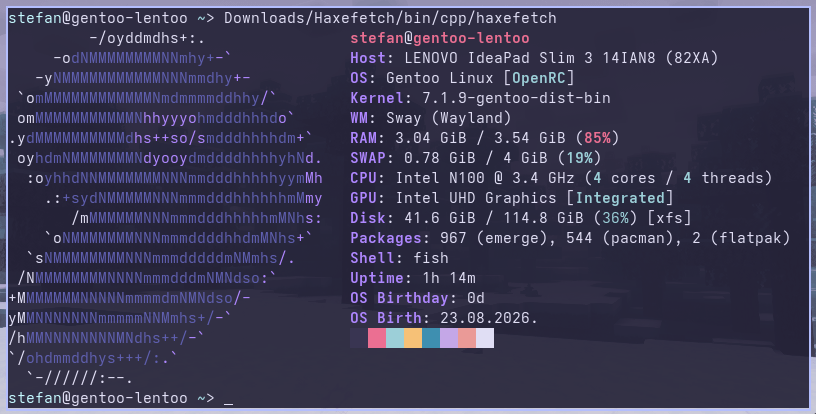
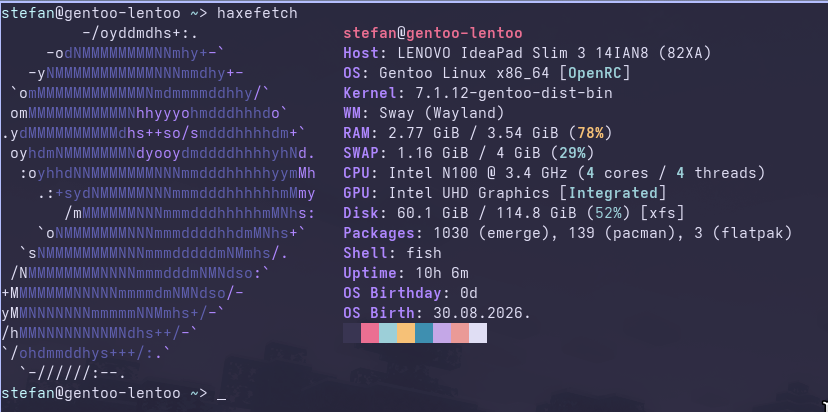
Push

Changed region(s): [[0.0, 0.0, 1.0, 1.0]]

diff --git a/.github/README.md b/.github/README.md
@@ -1,5 +1,5 @@
 <p align="center">
-  <img src="src/resources/Haxefetch.png" width="85%" alt="Haxefetch">
+  <img src="../src/resources/Haxefetch.png" width="85%" alt="Haxefetch">
 </p>
 
 <div align="center">
@@ -14,20 +14,20 @@
 Haxefetch is fetch program inspired by fastfetch, neofetch, pfetch, nerdfetch, hyfetch, and so on written in Haxe. [Don't know what's Haxe? Read more](https://haxe.org/) and [learn Haxe if you don't know!](https://haxe.org/documentation/introduction/)
 
 <p align="center">
-  <img src="src/resources/screenshots/haxefetch.png" width="90%" alt="Haxefetch">
+  <img src="../src/resources/screenshots/haxefetch.png" width="90%" alt="Haxefetch">
 </p>
 <p align="center">
-  <img src="src/resources/screenshots/haxefetch_small.png" width="90%" alt="Haxefetch-small">
+  <img src="../src/resources/screenshots/haxefetch_small.png" width="90%" alt="Haxefetch-small">
 </p>
 <p align="center">(Haxefetch preview)</p>
 
 <p align="center">
-  <img src="src/resources/screenshots/commands.png" width="90%" alt="Haxefetch commads">
+  <img src="../src/resources/screenshots/commands.png" width="90%" alt="Haxefetch commads">
 </p>
 <p align="center">(Haxefetch commands)</p>
 
 <p align="center">
-  <img src="src/resources/screenshots/configuration.png" width="50%" alt="Haxefetch configuration">
+  <img src="../src/resources/screenshots/configuration.png" width="50%" alt="Haxefetch configuration">
 </p>
 <p align="center">(Configuring Haxefetch with .conf support)</p>
 
